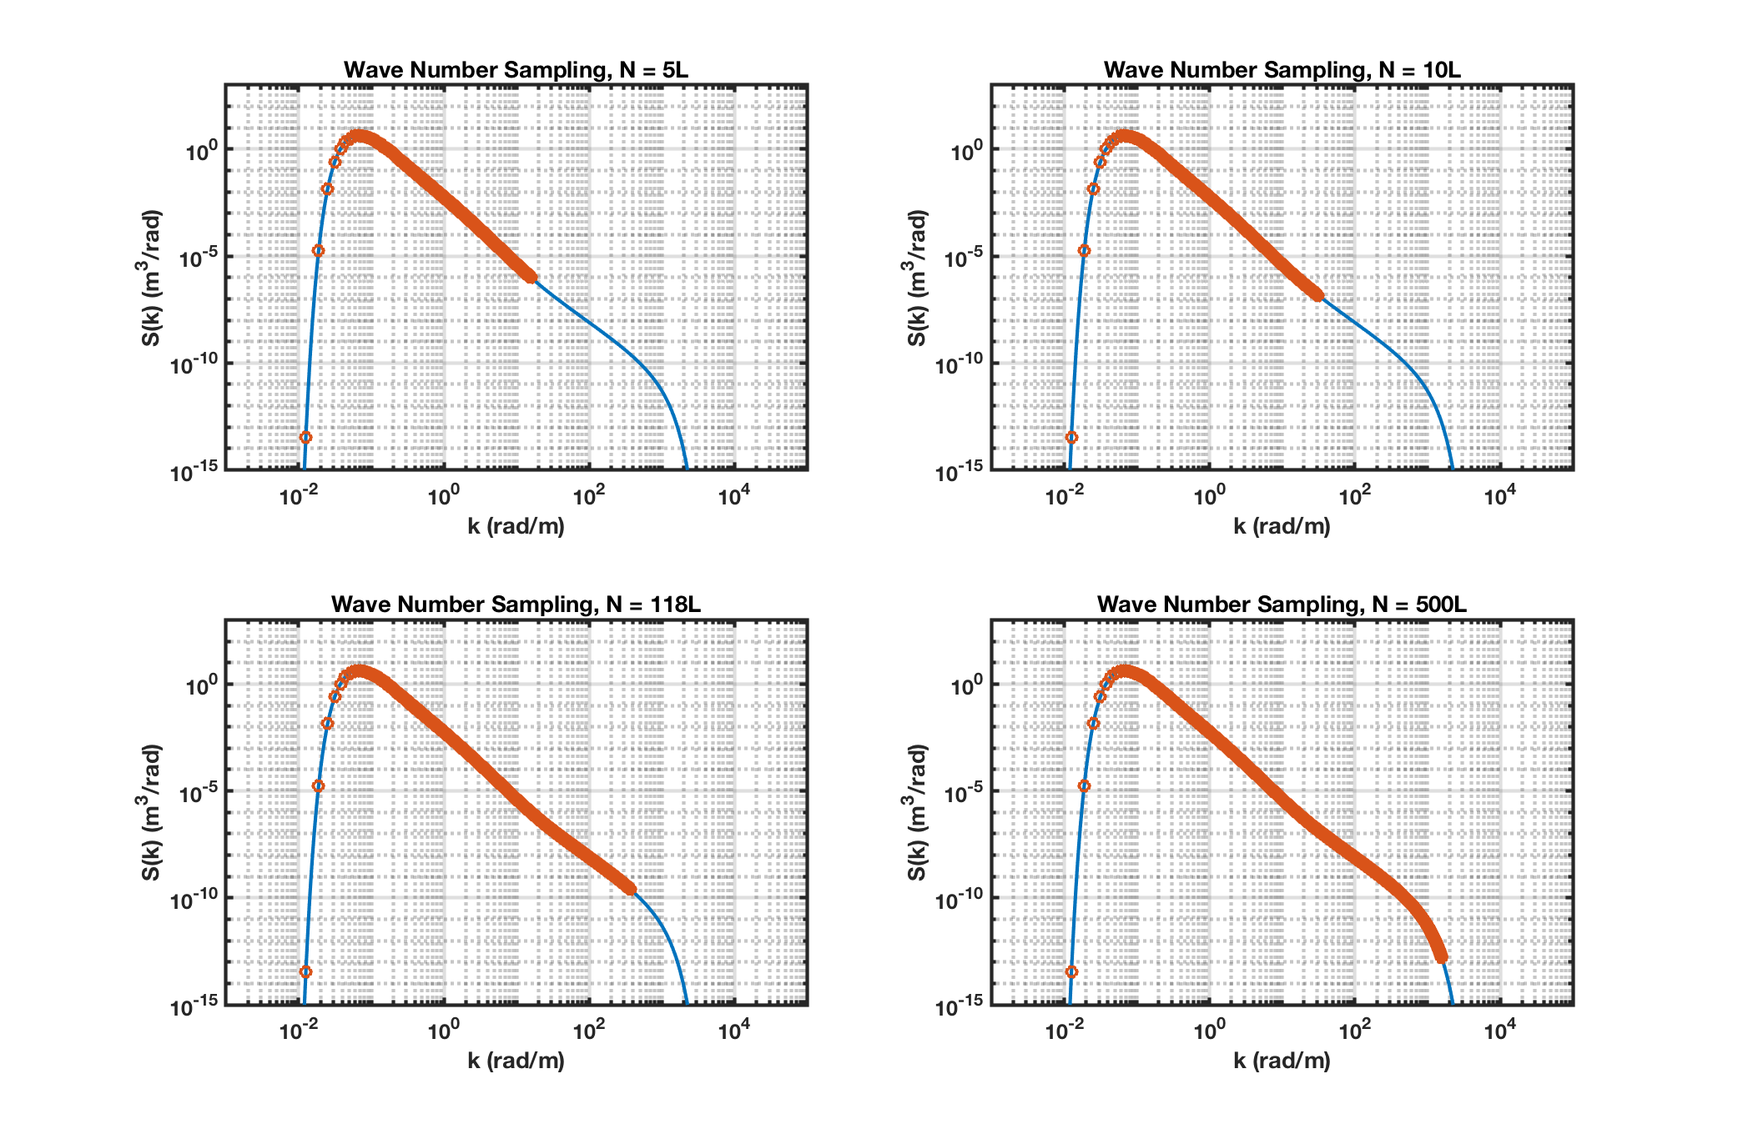
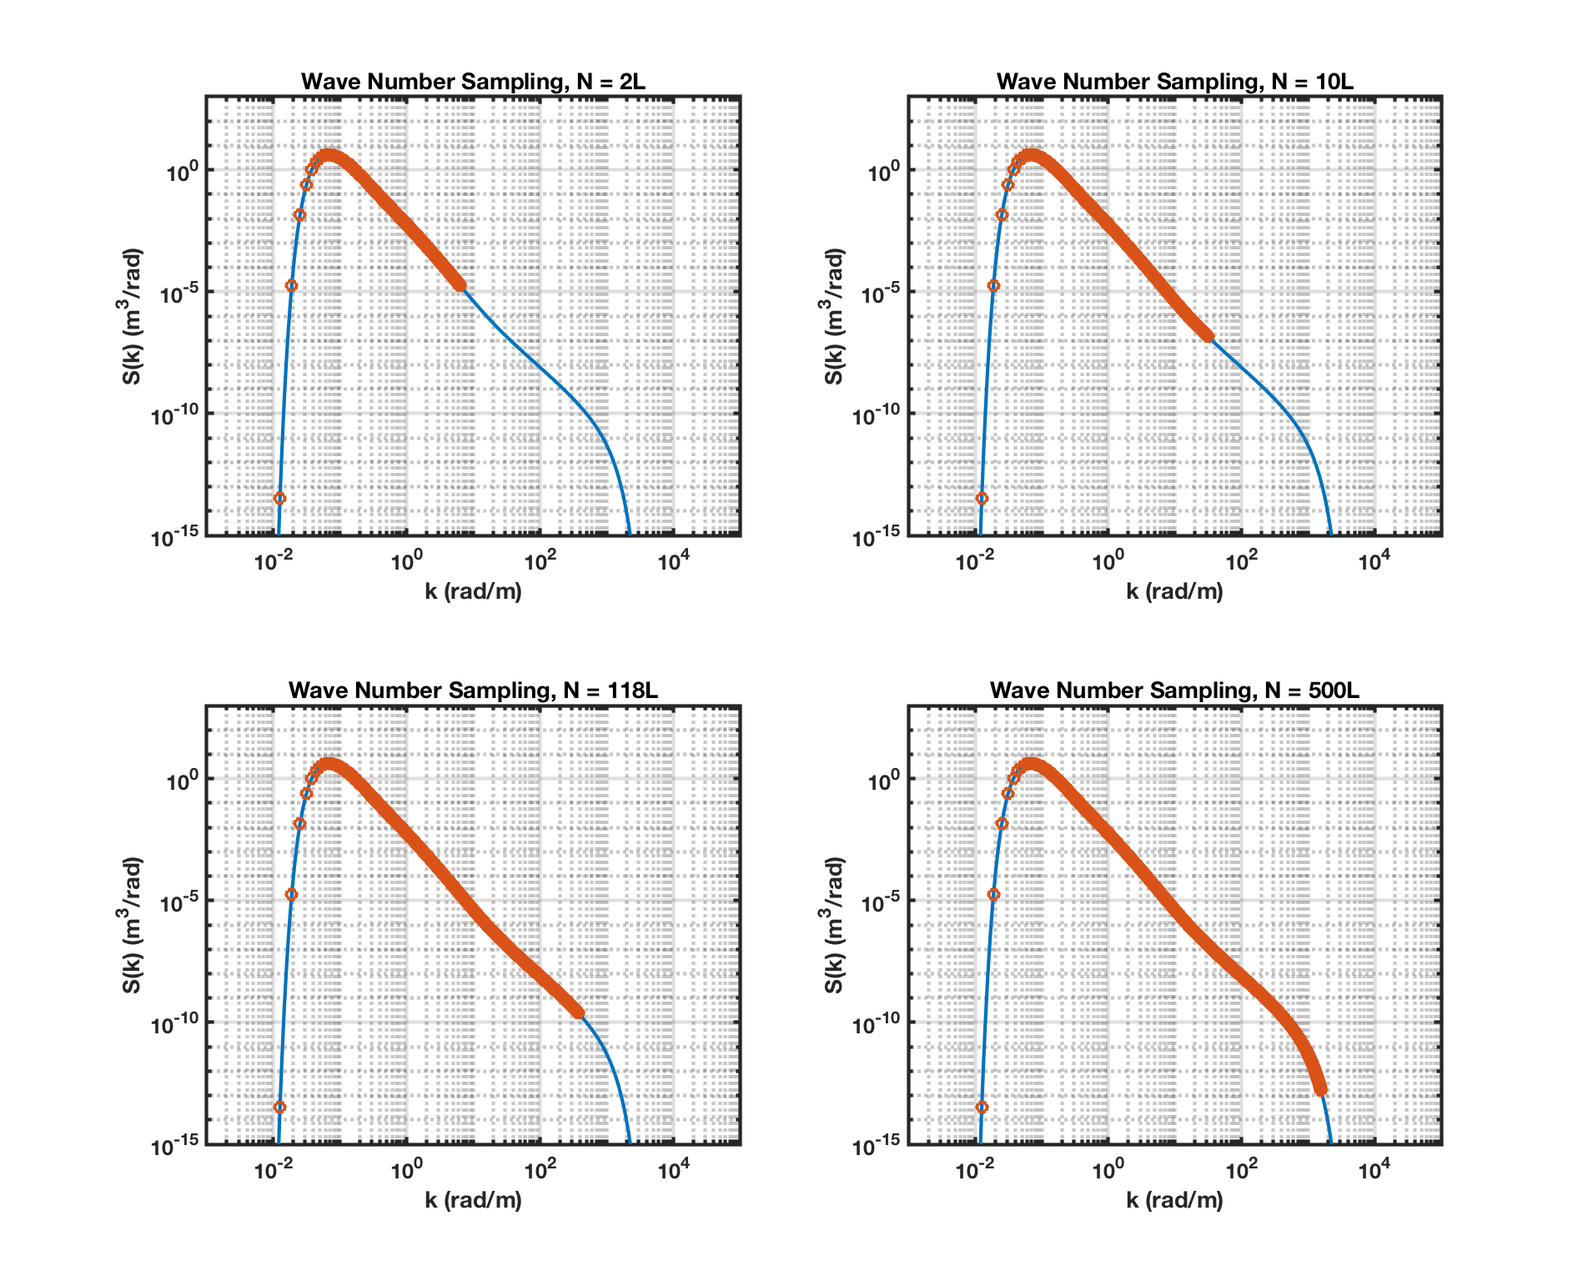
Clean up of typos, reworking some 2-D plots

diff --git a/src/ocean_surface_generation.tex b/src/ocean_surface_generation.tex
@@ -64,7 +64,7 @@ From Figure \ref{os_fig:1} we can see that wind speed impacts the spectral peak 
 The PM spectrum assumes deep water, infinite fetch and no swells and has repeatedly been shown to be accurate for gravity waves in fully developed seas, but fails to capture spectral peaks due to high winds over short fetches. This means that the low spatial frequency component of the power spectrum is valid in almost all cases but the high spatial frequency component is not.
 
 \subsection{Bretschneider Spectrum}
-To overcome the limitations of a spectrum that requires fully developed seas, several multi-parameter spectra have been developed. In 1978, the 12th International Towing Tank Conference recommended the Bretschneider spectrum \cite{michel_sea_spectra} given in Equation \ref{os_eq:1a} where the modal frequency $\omega_m$ is given by $\omega_m = 0.4\sqrt{g/H_{1/3}}$.
+To overcome the limitations of a spectrum that requires fully developed seas, several multi-parameter spectra have been developed. In 1978, the 12th International Towing Tank Conference recommended the Bretschneider spectrum \cite{michel_sea_spectra} shown in Equation \ref{os_eq:1a} where the modal frequency $\omega_m$ is given by $\omega_m = 0.4\sqrt{g/H_{1/3}}$.
 \begin{equation}
   \begin{gathered}
   \label{os_eq:1a}
@@ -95,7 +95,7 @@ The Joint North Sea Wave Project (JONSWAP) in the 1970s modified the Pierson-Mos
 The enhancement factor $\nu$ was empirically derived for locations in the North Sea and allows control of the amplitude as in the Bretschneider spectrum. The difference is that the JONSWAP enhancement factor only amplifies the spectrum around the spectral peak.
 
 \subsection{Elfouhaily Spectrum}
-Many additional spectra have been developed and in 1997, Elfouhaily et. al extended several of these to provide a unified modern spectrum that is broken into low and high spatial frequency regions, $B_l$ and $B_h$, \cite{elfouhaily}. 
+Many additional spectra have been developed and in 1997, Elfouhaily et. al extended several of these to provide a unified modern spectrum that is broken into low and high spatial frequency regions, $B_l$ and $B_h$, \cite{elfouhaily}. The Ocean Surface Generator (OSG) mode added in the Tropospheric Electromagnetic Parabolic Equation Routine (TEMPER) v3.2 internally uses the 1-dimensional Elfouhaily spectrum to generate random sea surface realizations \cite{temper_guide}.
 
 \subsubsection{Spectrum Definition}
 The 1-dimensional version of the Elfouhaily spectrum is given in Equation \ref{os_eq:2}.
@@ -183,6 +183,7 @@ The high spatial frequency region, $B_h$, is given by Equation \ref{os_eq:4} and
   $L_{PM}$ & PM shape spectrum \\ \hline
   $J_p$ & JONSWAP peak enhancement function \\ \hline
   $Cd_{10N}$ & Neutral stability drag coefficient at 10 m above sea level, $\approx 0.00144$ \\ \hline
+  $u^*$ & Friction velocity at the water surface \\ \hline
   $v$ & Phase speed of the wave \\ \hline
 \end{tabular}
 \end{center}
@@ -287,13 +288,15 @@ a_m = 0.13\frac{u^*}{v_m} \\
 \end{equation}
 \renewcommand{\baselinestretch}{2} \small\normalsize
 
+In Equation \ref{os_eq:5c}, $\phi$ is the azimuth angle in the $x$-$y$ plane, so that the downwind direction will be along the positive $x$-axis and the crosswind direction will be along the positive $y$-axis. The true orientation of these axes is arbitrary and can be rotated to any desired coordinate frame.
+
 The complete 2-dimensional unified Elfouhaily spectrum is given in Equation \ref{os_eq:5e}.
 \begin{equation}
 \label{os_eq:5e}
 \boxed{\Psi(k,\phi) = \frac{1}{2\pi k^4}\left[B_l + B_h \right] \left[1 + \Delta(k)\cos(2\phi) \right]}
 \end{equation}
 
-Figure \ref{os_fig:7bb} shows the 2-D variance and curvature power spectra on a log scale. In the curvature spectrum, we can see the secondary peak as in the 1-dimensional case.
+Figure \ref{os_fig:7bb} shows the 2-D variance and curvature power spectra. In the curvature spectrum, we can see the secondary peak along the $x$-axis as in the 1-dimensional case. The secondary peak is not observed along the $y$-axis as that represents the crosswind direction where additional energy is not being injected by the wind.
 \begin{figure}[H]
   \begin{center}
 \includegraphics[width=6in]{../media/Ocean_Surface/elf_variance_curvature_spectrum_2D.png}
@@ -318,16 +321,18 @@ Figure \ref{os_fig:7cc} shows the low frequency behavior of the 2-D variance pow
 \renewcommand{\baselinestretch}{2} \small\normalsize
 
 \section{Generation of Sea Surface Realizations in 1-Dimension}\label{os_sec:1d}
-Realizations of sea surfaces rely on having adequate sampling to cover both the spectral and spatial ranges of interest and then generating an appropriate set of Fourier coefficients. The 1-dimensional case is easiest to both understand and implement and will be discussed first.
+Realizations of sea surfaces rely on having adequate sampling to cover both the spectral and spatial ranges of interest and then generating an appropriate set of Fourier coefficients. The 1-dimensional case is easiest to understand and implement and will be discussed first.
 
 \subsection{Sampling Constraints}\label{os_label:1d_sampling_constraints}
 In order to generate a random sea surface, we need to establish the number of points to use ($N$) and the spatial domain length to cover ($L$). The spatial domain sampling inteval is then $\Delta x = \frac{L}{N}$ and the frequency domain sampling interval is $\Delta k = \frac{2\pi}{L}$. 
 
 From the Nyquist sampling theorem, the highest wave number that can be sampled given these values is $k_{max} = \frac{N}{2}\Delta k = \frac{N\pi}{L}$ rad/m, which corresponds to a minimum wavelength of $\lambda_{min} = 2\Delta x = \frac{2L}{N}$ m.
 
-Immediately, we see that to cover up to the secondary peak at $k_m$, $\frac{N}{L}\pi > k_m$ or $N > \frac{k_m}{\pi}L$. Since $k_m = 370$ rad/m, we can round up to state that $N \geq 118L$. In other words, the number of points required to cover up to the secondary peak in the spectrum is 118 times more than the length of the spatial domain. For the 1-dimensional case, this is not too bad as a 10 km length can be sampled with 1,180,000 points. It is in the 2-dimensional case where this really becomes problematic, as we now need $N^2$ points.
+Immediately, we see that to sample the secondary peak at $k_m$, $\frac{N}{L}\pi > k_m$ or $N > \frac{k_m}{\pi}L$. Since $k_m = 370$ rad/m, we can round up to state that $N \geq 118L$. In other words, the number of points required to sample the secondary peak in the spectrum is 118 times more than the length of the spatial domain. For the 1-dimensional case, this is not too bad as a 10 km length can be sampled with 1,180,000 points. 
 
-Figure \ref{os_fig:6aa} shows the impact on wavenumber sampling for various values of $N$ for $L$ = 1 km. The upper left hand plot shows the case where $N = 5L$, the upper right hand plot shows the case where $N = 10L$, the lower left hand plot shows the case where $N = 118L$, and the lower right hand plot shows the case where $N = 500L$. Since $\Delta x = \frac{L}{N}$, these cases represent spatial resolutions of 1/5 m, 1/10 m, 1/118 m, and 1/500 m. 
+In general, we only need this many points when performing verification runs to demonstrate we are capable of modeling the entire spectrum correctly. In many situations, we are not concerned with capturing the high spatial frequencies as much as we are with staying below a pre-defined maximum spatial step. This step is typically on the order of 0.1 m ($N = 10L$) to 0.5 m ($N = 2L$).
+
+Figure \ref{os_fig:6aa} shows the impact on wavenumber sampling for various values of $N$ for $L$ = 1 km. The upper left hand plot shows the case where $N = 2L$, the upper right hand plot shows the case where $N = 10L$, the lower left hand plot shows the case where $N = 118L$, and the lower right hand plot shows the case where $N = 500L$. Since $\Delta x = \frac{L}{N}$, these cases represent spatial resolutions of 1/2 m, 1/10 m, 1/118 m, and 1/500 m. 
 \begin{figure}[H]
   \begin{center}
 \includegraphics[width=6in]{../media/Ocean_Surface/sampling_coverage.png}
@@ -340,9 +345,7 @@ Figure \ref{os_fig:6aa} shows the impact on wavenumber sampling for various valu
 \renewcommand{\baselinestretch}{2} \small\normalsize
 Since $L$ is the same for each case, $\Delta k$ is also the same and we can see how increasing $N$ increases coverage of higher spatial frequencies.
 
-In many situations, we are not concerned with capturing the high spatial frequencies as much as we are with staying below a pre-defined maximum spatial step. This step is typically on the order of 0.5 m, in which case $N = 2L$.
-
-As a final note for sampling constraints, we need to maintain integer indexing for digital implementation so $N$ must be an even integer to allow the element $N/2$ to be an integer as well. We will define the range in $k$-space as running from $-\left(\frac{N}{2}-1\right)\Delta k$ to $\frac{N}{2}\Delta k$.
+As a final note for sampling constraints, we need to maintain integer indexing for digital implementation so $N$ must be an even integer to allow the element $N/2$ to be an integer as well. For the 1-dimensional case, we will define the range in $k$-space as running from $0$ to $\frac{N}{2}\Delta k$.
 
 \subsection{Frequency Domain Representation}
 The general idea is to use the power spectrum to create a realization of the sea surface in the frequency domain and then transform that to the spatial domain through an inverse Fourier transform. We will follow the procedure outlined in \cite{percival_spectra}, 
@@ -361,14 +364,14 @@ To generate the frequency domain representation ($V_j$), we will take a set of G
     V_{N-j}^*, &  \frac{N}{2} < j \leq N-1 
   \end{cases} 
 \end{equation}
-The extra factor of $\frac{1}{2}$ in line 2 of Equation \ref{os_eq:8} comes from the fact that we need to normalize both the expectations $\left<w_j + iu_j\right>$ and $\left<w_j - iu_j\right>$ to conserve energy.
+The extra factor of $\frac{1}{2}$ in line 2 of Equation \ref{os_eq:8} comes from the fact that we have Hermitian symmetry and need to normalize both the expectations $\left<w_j + iu_j\right>$ and $\left<w_j - iu_j\right>$ to conserve energy.
 
 The index ordering is assumed to have $k=0$ at the first element so that the sequence will wrap in frequency at $j = \frac{N}{2} + 1$. An example sequence for $N = 8$ is shown in Table \ref{os_tab:2a}.
 \begin{table}[H]
   \begin{center}
       \renewcommand{\baselinestretch}{1} \small\normalsize
   \begin{quote}
-    \caption[Example 1-D Hermitian Sequence]{Example 1-D Hermitian Sequence\label{os_tab:2a}}
+    \caption[Example 1-Dimensional Frequency Domain Representation]{Example 1-Dimensional Frequency Domain Representation\label{os_tab:2a}}
   \end{quote}
   \begin{tabular} {| c | c | c |}
     \hline
@@ -381,12 +384,22 @@ The index ordering is assumed to have $k=0$ at the first element so that the seq
   $5$ & $-3\Delta k$ & $\frac{1}{2}\sqrt{\frac{S_{3}}{2} \Delta k} \left(w_3 - iu_3 \right)$ \\ \hline
   $6$ & $-2\Delta k$ & $\frac{1}{2}\sqrt{\frac{S_{2}}{2} \Delta k} \left(w_2 - iu_2 \right)$  \\ \hline
   $7$ & $-\Delta k$ & $\frac{1}{2}\sqrt{\frac{S_{1}}{2} \Delta k} \left(w_1 - iu_1 \right)$ \\ \hline
-
 \end{tabular}
 \end{center}
 \end{table}
 \renewcommand{\baselinestretch}{2} \small\normalsize
 
+Figure \ref{os_fig:6ab} shows the Hermitian symmetry of the frequency domain representation graphically. The elements with frequencies $0$ and $4\Delta k$ (white boxes) have no opposites and must be purely real. The other elements (colored boxes) do have opposing frequencies and must be complex conjugates to each other (complex conjugate pairs are identified by the arrows).
+\begin{figure}[H]
+  \begin{center}
+\includegraphics[width=5in]{../media/Ocean_Surface/1-d_hermitian_symmetry.png}
+  \end{center}
+  \renewcommand{\baselinestretch}{1} \small\normalsize
+  \begin{quote}
+    \caption[Hermitian Symmetry in 1-Dimension]{Hermitian Symmetry in 1-Dimension\label{os_fig:6ab}}
+  \end{quote}
+\end{figure}
+\renewcommand{\baselinestretch}{2} \small\normalsize
 Now that we have the random Fourier coefficients, we can generate the sea surface through the inverse Fourier transform as in Equation \ref{os_eq:9}. Because the sequence is Hermitian, the sea surface will be purely real.
 \begin{equation}
   \label{os_eq:9}
@@ -394,7 +407,7 @@ Now that we have the random Fourier coefficients, we can generate the sea surfac
   \end{equation}
 
 \subsection{Example Realizations}
-Figure \ref{os_fig:7a} shows an example realization for $U_{10}$ = 10 m/s and $L$ = 1km. The upper plots show the generated sea surface, and a comparison of the original spectrum to the recovered spectrum for $N = 2^{17}$. Here, $N = 131.07L$ and $\Delta x$ = 7.6 mm. The bottom plots show the same for $N=2^{11}$. Here, $N = 2.04L$ and $\Delta x$ = 0.49 m.
+Figure \ref{os_fig:7a} shows an example realization for $U_{10}$ = 10 m/s and $L$ = 1km. The upper plots show the generated sea surface, and a comparison of the original spectrum to the recovered spectrum for $N = 500L$ ($\Delta x$ = 1/500 m). The bottom plots show the same for $N=2L$ ($\Delta x$ = 1/2 m).
 \begin{figure}[H]
   \begin{center}
 \includegraphics[width=6in]{../media/Ocean_Surface/sea_surface_1000.png}
@@ -406,7 +419,7 @@ Figure \ref{os_fig:7a} shows an example realization for $U_{10}$ = 10 m/s and $L
 \end{figure}
 \renewcommand{\baselinestretch}{2} \small\normalsize
 
-Figure \ref{os_fig:7aa} shows another example realization, this time for $L$ = 10km. The upper plots show the generated sea surface, and a comparison of the original spectrum to the recovered spectrum for $N = 2^{21}$. Here, $N = 209.7L$ and $\Delta x$ = 4.8 mm. The bottom plots show the same for $N=2^{15}$. Here, $N = 3.3L$ and $\Delta x$ = 0.3 m.
+Figure \ref{os_fig:7aa} shows another example realization, this time for $L$ = 10km. The upper plots show the generated sea surface, and a comparison of the original spectrum to the recovered spectrum for $N = 500L$ ($\Delta x$ = 1/500 m). The bottom plots show the same for $N=2L$ ($\Delta x$ = 1/2 m).
 \begin{figure}[H]
   \begin{center}
 \includegraphics[width=6in]{../media/Ocean_Surface/sea_surface_10000.png}
@@ -417,11 +430,23 @@ Figure \ref{os_fig:7aa} shows another example realization, this time for $L$ = 1
   \end{quote}
 \end{figure}
 \renewcommand{\baselinestretch}{2} \small\normalsize
-For both Figures \ref{os_fig:7a} and \ref{os_fig:7aa}, $N$ was set to the next highest power of 2 to capture the secondary peak.
 
 \section{Generation of Sea Surface Realizations in 2-Dimensions}
 We will generally follow Section \ref{os_sec:1d} to generate 2-dimensional surfaces but we now have a wave vector $\mathbf{k} = k_x\hat{x} + k_y\hat{y}$ instead of a scalar wave number. In this case we will have matrices and the number of points will go as $N^2$. We still have the constraint that the frequency domain representation should exhibit Hermitian symmetry, so $V(n,m) = V^*(N-n,N-m)$. The special cases at the elements $k = 0$ and $k = \frac{N}{2}$ now turn into special cases for the vectors $k_x = 0$, $k_x = \frac{N}{2}$, $k_y = 0$, and $k_y = \frac{N}{2}$. 
 
+The idea of Hermitian symmetry is less intuitive for 2-dimensions. Figure \ref{os_fig:7dd} shows the concept for an 8 x 8 matrix in terms of $(k_x, k_y)$ pairs. The 4 white blocks at $(k_x=0, k_y=0)$, $(k_x=4\Delta k, k_y=0)$, $(k_x=0, k_y=4\Delta k)$, and $(k_x=4\Delta k), k_y=4\Delta k))$ have no opposing frequencies and must be purely real. The 4 vectors where $k_x = 0$, $k_x = 4\Delta k$, $k_y = 0$, and $k_y = 4\Delta k$ are again special cases with no opposing frequencies in the 2nd dimension. These cases can be treated independently as if they were 1-dimensional sequences. This leaves a set of 4 sub-matrices of size $\frac{N}{2} - 1 $ x $\frac{N}{2} - 1$. It is sufficient to compute 2 of the sub-matrices directly and then use the Hermitian symmetry to generate the remaining 2.
+\begin{figure}[H]
+  \begin{center}
+\includegraphics[width=6in]{../media/Ocean_Surface/2-d_hermitian_symmetry.png}
+  \end{center}
+  \renewcommand{\baselinestretch}{1} \small\normalsize
+  \begin{quote}
+    \caption[Hermitian Symmetry in 2-Dimensions]{Hermitian Symmetry in 2-Dimensions \label{os_fig:7dd}}
+  \end{quote}
+\end{figure}
+\renewcommand{\baselinestretch}{2} \small\normalsize
+
+\section{Example Realizations}
 Figure \ref{os_fig:8} shows a section of a generated 2D sea surface. The total surface was $1000 m^2$, only $100 m^2$ is shown here.
 \begin{figure}[H]
   \begin{center}

diff --git a/mfiles/generateOceanSurfaceTestPlots.m b/mfiles/generateOceanSurfaceTestPlots.m
@@ -7,16 +7,12 @@ if(nargin == 1)
 end
 
 L1 = 1000;
-M1 = nextpow2(118*L1);
-M3 = nextpow2(2*L1);
-N1 = 2^M1;
-N3 = 2^M3;
+N1 = 500*L1;
+N3 = 2*L1;
 
 L2 = 10000;
-M2 = nextpow2(118*L2);
-N2 = 2^M2;
-M4 = nextpow2(2*L2);
-N4 = 2^M4;
+N2 = 500*L2;
+N4 = 2*L2;
 
 U10 = 10;
 age = 0.84;
@@ -55,7 +51,7 @@ set(gca,'FontSize',12)
 set(gca,'FontWeight','bold')
 xlabel('x (m)')
 ylabel('h (m)')
-tstring = sprintf('Sea Surface, L = %d km, N = 2^{%d}',L1/1000,M1);
+tstring = sprintf('Sea Surface, L = %d km, N = %dL',L1/1000,N1/L1);
 title(tstring);
 
 Pxx1 = periodogram(real(h1),[],'onesided',N1,1/dx1);
@@ -73,7 +69,7 @@ set(gca,'FontSize',12)
 set(gca,'FontWeight','bold')
 xlabel('k (rad/m)')
 ylabel('S(k) (m^3/rad)')
-tstring = sprintf('Spectrum Comparison, L = %d km, N = 2^{%d}',L1/1000,M1);
+tstring = sprintf('Spectrum Comparison, L = %d km, N = %dL',L1/1000,N1/L1);
 title(tstring);
 
 subplot(2,2,3)
@@ -84,7 +80,7 @@ set(gca,'FontSize',12)
 set(gca,'FontWeight','bold')
 xlabel('x (m)')
 ylabel('h (m)')
-tstring = sprintf('Sea Surface, L = %d km, N = 2^{%d}',L1/1000,M3);
+tstring = sprintf('Sea Surface, L = %d km, N = %dL',L1/1000,N3/L1);
 title(tstring);
 
 Pxx3 = periodogram(real(h3),[],'onesided',N3,1/dx3);
@@ -102,7 +98,7 @@ set(gca,'FontSize',12)
 set(gca,'FontWeight','bold')
 xlabel('k (rad/m)')
 ylabel('S(k) (m^3/rad)')
-tstring = sprintf('Spectrum Comparison, L = %d km, N = 2^{%d}',L1/1000,M3);
+tstring = sprintf('Spectrum Comparison, L = %d km, N = %dL',L1/1000,N3/L1);
 title(tstring);
 
 %% plot the sea surface realizations
@@ -115,7 +111,7 @@ set(gca,'FontSize',12)
 set(gca,'FontWeight','bold')
 xlabel('x (m)')
 ylabel('h (m)')
-tstring = sprintf('Sea Surface, L = %d km, N = 2^{%d}',L2/1000,M2);
+tstring = sprintf('Sea Surface, L = %d km, N = %dL',L2/1000,N2/L2);
 title(tstring);
 xlim([0 1000])
 
@@ -134,7 +130,7 @@ set(gca,'FontSize',12)
 set(gca,'FontWeight','bold')
 xlabel('k (rad/m)')
 ylabel('S(k) (m^3/rad)')
-tstring = sprintf('Spectrum Comparison, L = %d km, N = 2^{%d}',L2/1000,M2);
+tstring = sprintf('Spectrum Comparison, L = %d km, N =%dL',L2/1000,N2/L2);
 title(tstring);
 
 subplot(2,2,3)
@@ -145,7 +141,7 @@ set(gca,'FontSize',12)
 set(gca,'FontWeight','bold')
 xlabel('x (m)')
 ylabel('h (m)')
-tstring = sprintf('Sea Surface, L = %d km, N = 2^{%d}',L2/1000,M4);
+tstring = sprintf('Sea Surface, L = %d km, N = %dL',L2/1000,N4/L2);
 title(tstring);
 xlim([0 1000])
 
@@ -164,7 +160,7 @@ set(gca,'FontSize',12)
 set(gca,'FontWeight','bold')
 xlabel('k (rad/m)')
 ylabel('S(k) (m^3/rad)')
-tstring = sprintf('Spectrum Comparison, L = %d km, N = 2^{%d}',L2/1000,M2);
+tstring = sprintf('Spectrum Comparison, L = %d km, N = %dL',L2/1000,N4/L2);
 title(tstring);
 %% 
 s1 = std(h1);

diff --git a/mfiles/generateOceanSurface2DTestPlots.m b/mfiles/generateOceanSurface2DTestPlots.m
@@ -54,7 +54,7 @@ set(gca,'LineWidth',2)
 set(gca,'FontSize',12)
 set(gca,'FontWeight','bold')
 set(gca,'View',[-34, 65]);
-tstring = sprintf('Subsection, 100m^2 Patch, L = %d m, N = %dL', L, N/L);
+tstring = sprintf('Generated 2-D Surface, 100m^2 Patch, L = %d m, N = %dL', L, N/L);
 title(tstring);
 
 %% Plot the surface image
@@ -68,7 +68,8 @@ ylabel('y (m)')
 set(gca,'LineWidth',2)
 set(gca,'FontSize',12)
 set(gca,'FontWeight','bold')
-title('Full 1km^2 Patch')
+tstring = sprintf('Generated 2-D Surface, L = %d m, N = %dL', L, N/L);
+title(tstring);
 colorbar
 
 plot(100*ones(size(l1)),l1,'m','LineWidth',2);
@@ -119,7 +120,7 @@ set(gca,'LineWidth',2)
 set(gca,'FontSize',12)
 set(gca,'FontWeight','bold')
 grid on
-tstring = sprintf('Sea Surface Y Slice, L = %d m, N = %d',L,N/L);
+tstring = sprintf('Sea Surface Y Slice, L = %d m, N = %dL',L,N/L);
 title(tstring);
 
 subplot(2,2,4)
@@ -136,7 +137,7 @@ set(gca,'FontWeight','bold')
 xlabel('k (rad/m)')
 ylabel('S(k) (m^3/rad)')
 title('Y Slice')
-tstring = sprintf('Spectrum Comparison, L = %d m, N = %d',L,N/L);
+tstring = sprintf('Spectrum Comparison, L = %d m, N = %dL',L,N/L);
 title(tstring);
 
 %% plot the sampling coverage

diff --git a/mfiles/Elfouhaily.m b/mfiles/Elfouhaily.m
@@ -8,7 +8,7 @@ ustar = sqrt(Cd10N)*U10;%friction velocity at the water surface
 km = 370.0;
 cm = 0.23; %minimum phase speed at wavenumber km
 sigma = 0.08*(1+4*age^(-3));
-alphap = 0.006*age^(0.55); %generalizaed Phillips-Kitaigorodskii equilibrium range parameter for long waves
+alphap = 0.006*age^(0.55); %generalized Phillips-Kitaigorodskii equilibrium range parameter for long waves
 k0 = g/(U10^2);
 kp = k0 * age^2; %wavenumber of the spectral peak
 cp = sqrt(g/kp); %phase speed at the spectral peak cp = U10/age

diff --git a/mfiles/generateSamplingCoveragePlots.m b/mfiles/generateSamplingCoveragePlots.m
@@ -12,7 +12,7 @@ U10 = 10;
 age = 0.84;
 
 L = 1000;
-N1 = 5*L;
+N1 = 2*L;
 N2 = 10*L;
 N3 = 118*L;
 N4 = 500*L;
@@ -27,7 +27,7 @@ k4 = (1:N4/2+1)*dk;
 p = linspace(-3,4,1000);
 k = 10.^p;
 
-hh(1) = figure('pos',[50 50 1000 650]);
+hh(1) = figure('pos',[50 50 917 740]);
 subplot(2,2,1)
 loglog(k,Elfouhaily(k,U10,age),'LineWidth',2);
 hold on

diff --git a/src/test_ocean_surface_generation.tex b/src/test_ocean_surface_generation.tex
@@ -51,8 +51,8 @@
 
 \vspace{25pt}
 \large Ben Frazier \\
-\large FPS/KVU \\
-\vspace{100pt}
+\large IRST and Sensors Group, FPS/KVU \\
+\vspace{125pt}
 \large \today
 \end{center}
 

diff --git a/mfiles/generateSeaSurface.m b/mfiles/generateSeaSurface.m
@@ -11,10 +11,10 @@ if (nargin == 5)
 end
 
 dk = 2*pi/L;
-k = (1:N/2+1)*dk;
+k = (0:N/2)*dk;
 
 S = Elfouhaily(k,U10,age);
-
+S(1) = 0;
 %create the random variables
 
 V = [];
